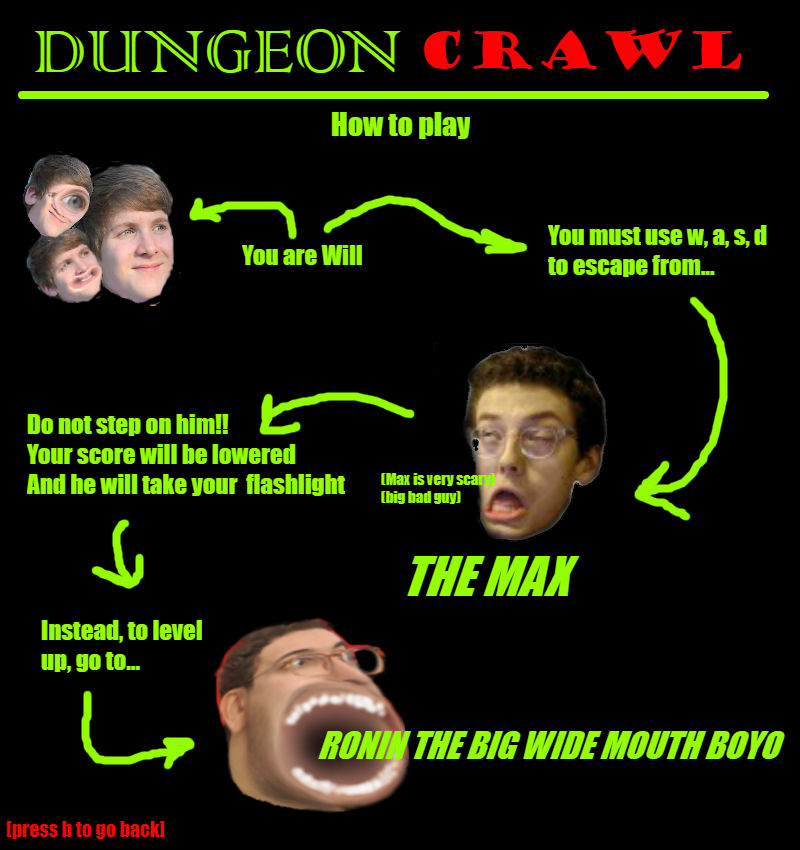
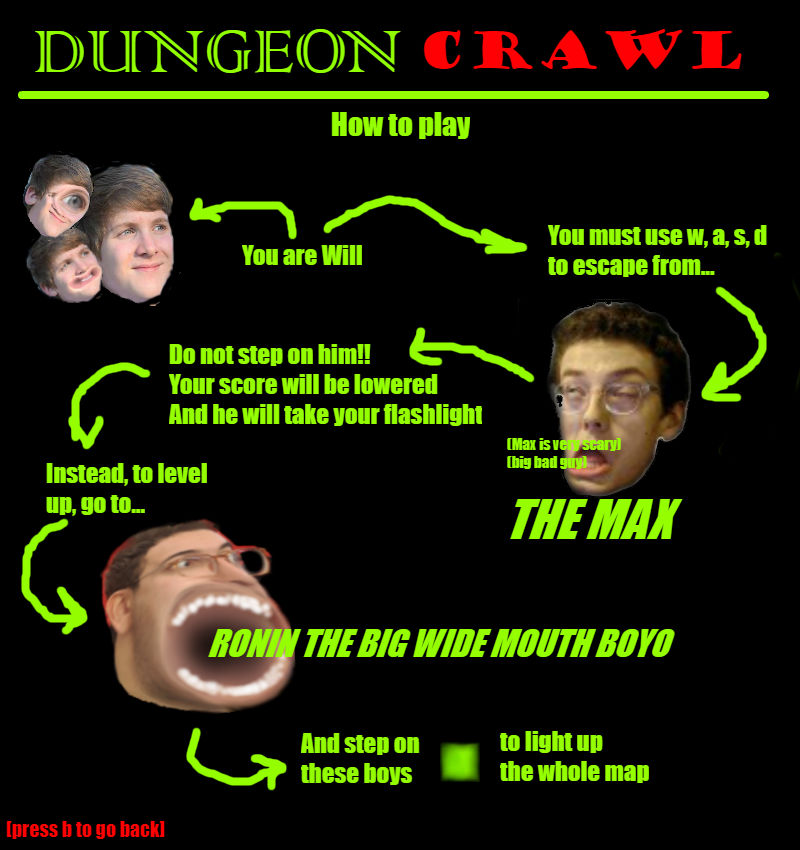
Ronin Edit 5-2

Changed region(s): [[0.0, 0.3365, 1.0, 0.9788], [0.9375, 0.3671, 0.9688, 0.4282]]

diff --git a/Map.java b/Map.java
@@ -59,6 +59,7 @@ public class Map{
 		player = new Player(this,size/2,size-1,1,1);
 		
 		genGoal();
+		genLumTiles(0);
 	}
 	
 	private void genGoal(){
@@ -73,11 +74,36 @@ public class Map{
 				
 		genGoal();
 	}
+
+	public void genLumTiles(int count){
+
+	if(count < 1 + (int)(.2*size)){
+		for(Tile [] tileArray : grid)
+			for(Tile t : tileArray)
+				for(Subtile[] subArray : t.subtiles)
+					for(Subtile sub : subArray)
+						if(sub.show && rand.nextInt(100) == 1){
+							sub.makeLS();
+							genLumTiles(count+1);
+							return;
+						}
+	}
+		
+	}
 	
 	public void draw(Graphics g){
-		for(int i = player.yCoord-2; i<player.yCoord+2 && i<size; i++)
-			for(int j = player.xCoord-2; j<player.xCoord+2 && j<size; j++)
-				if(i>=0 && j>=0) grid[j][i].draw(g,size,HEIGHT,WIDTH);
+		//player.yCoord-2; i<player.yCoord+2 && 
+		//player.xCoord-2; j<player.xCoord+2 &&
+		if(player.isAtLS()){
+			for(int i = 0; i<size; i++)
+				for(int j = 0; j<size; j++)
+					if(i>=0 && j>=0) grid[j][i].draw(g,size,HEIGHT,WIDTH);
+		}
+		else{
+			for(int i = player.yCoord-2; i<player.yCoord+2 && i<size; i++)
+				for(int j = player.xCoord-2; j<player.xCoord+2 && j<size; j++)
+					if(i>=0 && j>=0) grid[j][i].draw(g,size,HEIGHT,WIDTH);
+		}
 		player.initBlindness(g, HEIGHT/size/3);
 		player.draw(g, frame);
 		player.chaser.draw(g, frame);

diff --git a/Subtile.java b/Subtile.java
@@ -16,7 +16,8 @@ public class Subtile extends Tile {
 
 	public static JFrame frame;
 
-	public int blindness; //0 for all bright, 1 for dim, 2 for black
+	public int blindness = 0; //0 for all bright, 1 for dim, 2 for black
+	public boolean isLS = false; //is Light Subtile; lights up the whole maze
 
 	//public Subtile north;
 	/*
@@ -42,7 +43,6 @@ public class Subtile extends Tile {
 		yPos = y;
 		show = b;
 		this.frame = frame;
-		blindness = 2;
 		//north = t.north;
 	}
 
@@ -76,6 +76,15 @@ public void drawSub(Graphics g, int size, int W, int H, BufferedImage brick, Buf
 			catch (IOException e){};
 			g.drawImage(head, (int)(xPix-width/3), (int)(yPix-width/3), width+width/3, width+width/3, frame);
 		}
+		else if(isLS && blindness != 2){
+			BufferedImage lSub = null;
+			try {
+    			lSub = ImageIO.read(new File("LSub.jpg"));
+			} 
+			catch (IOException e){};
+
+			g.drawImage(lSub,xPix,yPix,width,width, frame);
+		}
 		else if (blindness != 2){
 			drawCarpet(xPix, yPix, width, c1, c2, frame, g);
 			/*
@@ -107,6 +116,10 @@ public void drawSub(Graphics g, int size, int W, int H, BufferedImage brick, Buf
 	
 	public void makeGoal(){
 		this.isGoal = true;
+	}
+
+	public void makeLS(){
+		this.isLS = true;
 	}
 
 	public void drawTorches(Random rand, Random rand2, int xPix, int yPix, int lumwidth, Graphics g){

diff --git a/Sprite.java b/Sprite.java
@@ -138,8 +138,9 @@ class Player extends Sprite{
 						locX = t.xPos*(m.WIDTH/widthConst) + sub.xPos*width;
 						locY = t.yPos*(m.HEIGHT/widthConst) + sub.yPos*width;
 						distFrom = Math.sqrt((locX - myLocX)*(locX - myLocX) + (locY - myLocY)*(locY - myLocY)); //gets distance from every tile to me
-
-						if(!atChaser && distFrom < width*2){
+						
+						if(this.isAtLS()) sub.blindness = 0;
+						else if(!atChaser && distFrom < width*2){
 							if(sub.show) sub.blindness = 0;
 							else sub.blindness = 1;
 						}
@@ -148,7 +149,6 @@ class Player extends Sprite{
 							else sub.blindness = 1;
 						}
 						else sub.blindness = 2;
-
 					}
 				}
 			}
@@ -180,6 +180,10 @@ class Player extends Sprite{
 			}	
 		}
 
+	}
+
+	public boolean isAtLS(){
+		return m.grid[xCoord][yCoord].subtiles[xSubCoord][ySubCoord].isLS;
 	}
 	
 	public void move(char c){
